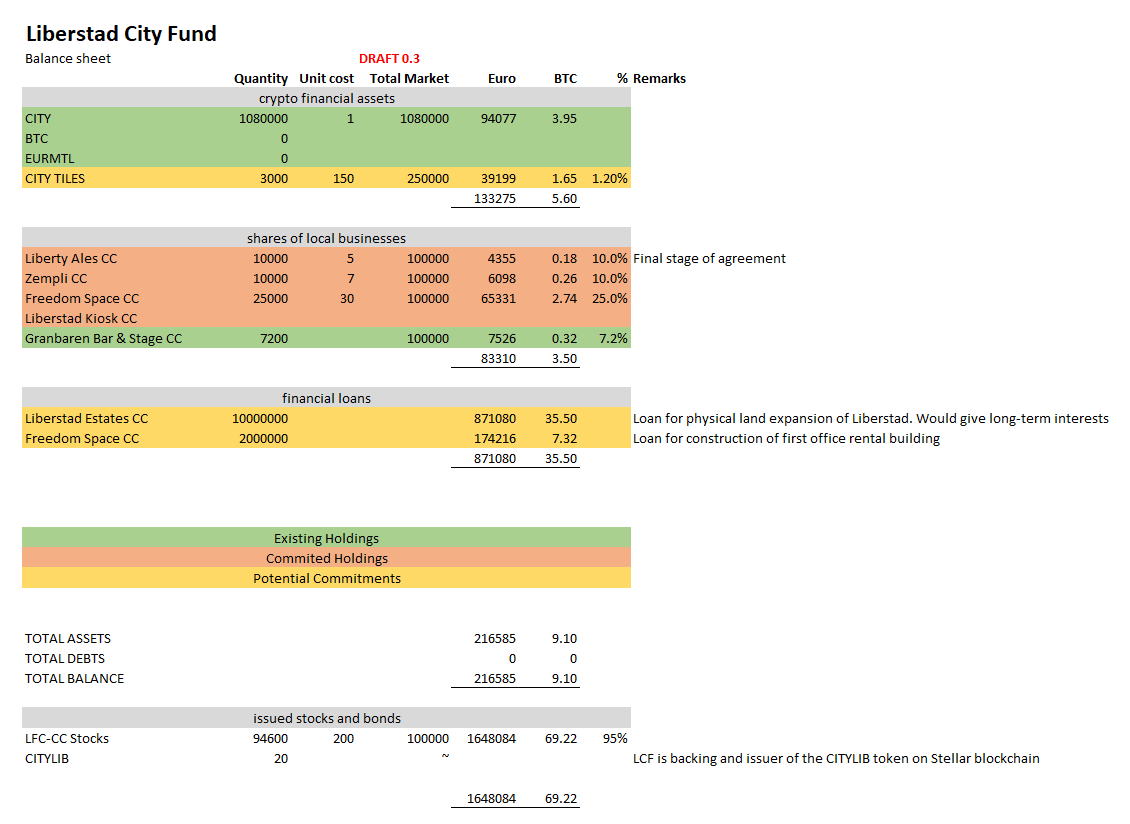
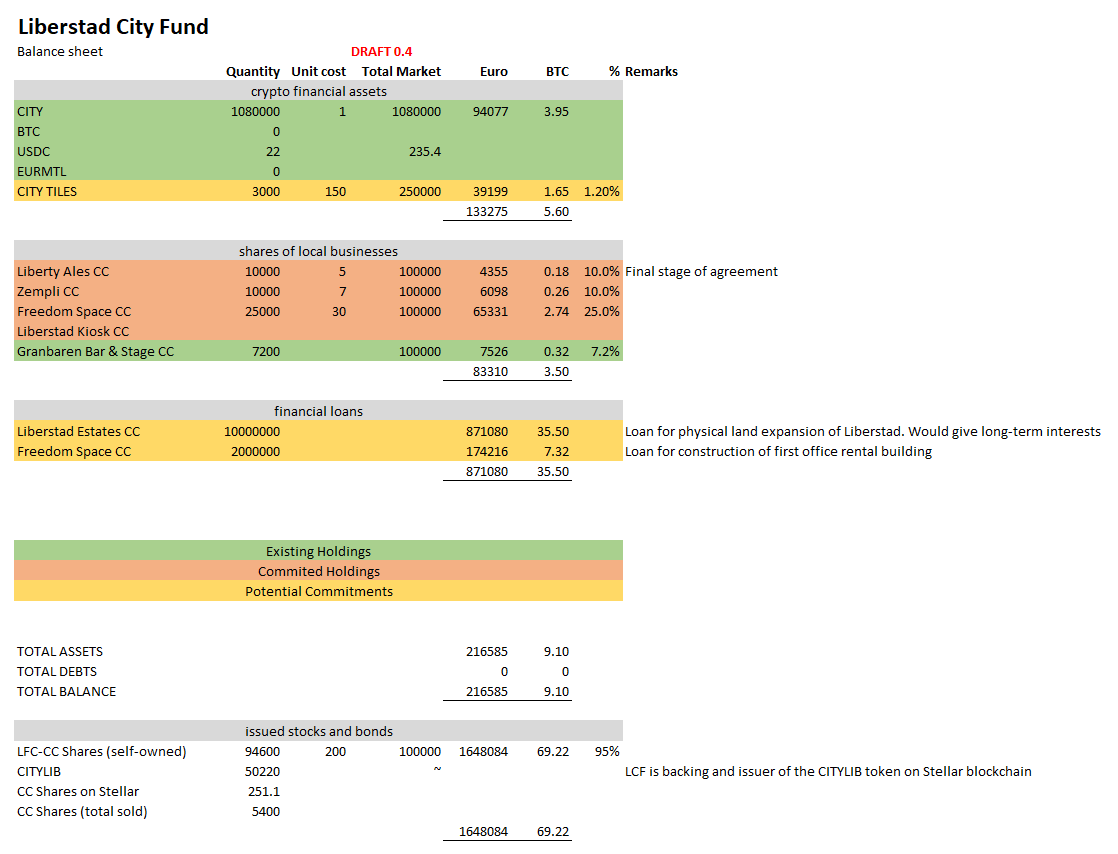
Update balance sheet and link to the public trade offers for CITYLIB/USDC

diff --git a/liberstad-city-fund/index.html b/liberstad-city-fund/index.html
@@ -175,7 +175,7 @@
           <strong>CCS</strong>, City Chain Stocks issued on the CC Exchange.
         </li>
         <li>
-          <strong>LCF (EURMTL)</strong> on Stellar (blockchain), operated in
+          <strong><a href="https://stellar.expert/explorer/public/market/CITYLIB-GB7NNIJDH2BOZQWJUAGFWAH224NNLMIUPXD45G3SVFE2Q2HI5IIB4RZG/USDC-GA5ZSEJYB37JRC5AVCIA5MOP4RHTM335X2KGX3IHOJAPP5RE34K4KZVN">CITYLIB/USDC</a></strong> on Stellar (blockchain), operated in
           collaboration with Montelibero (MTL).
         </li>
       </ul>
